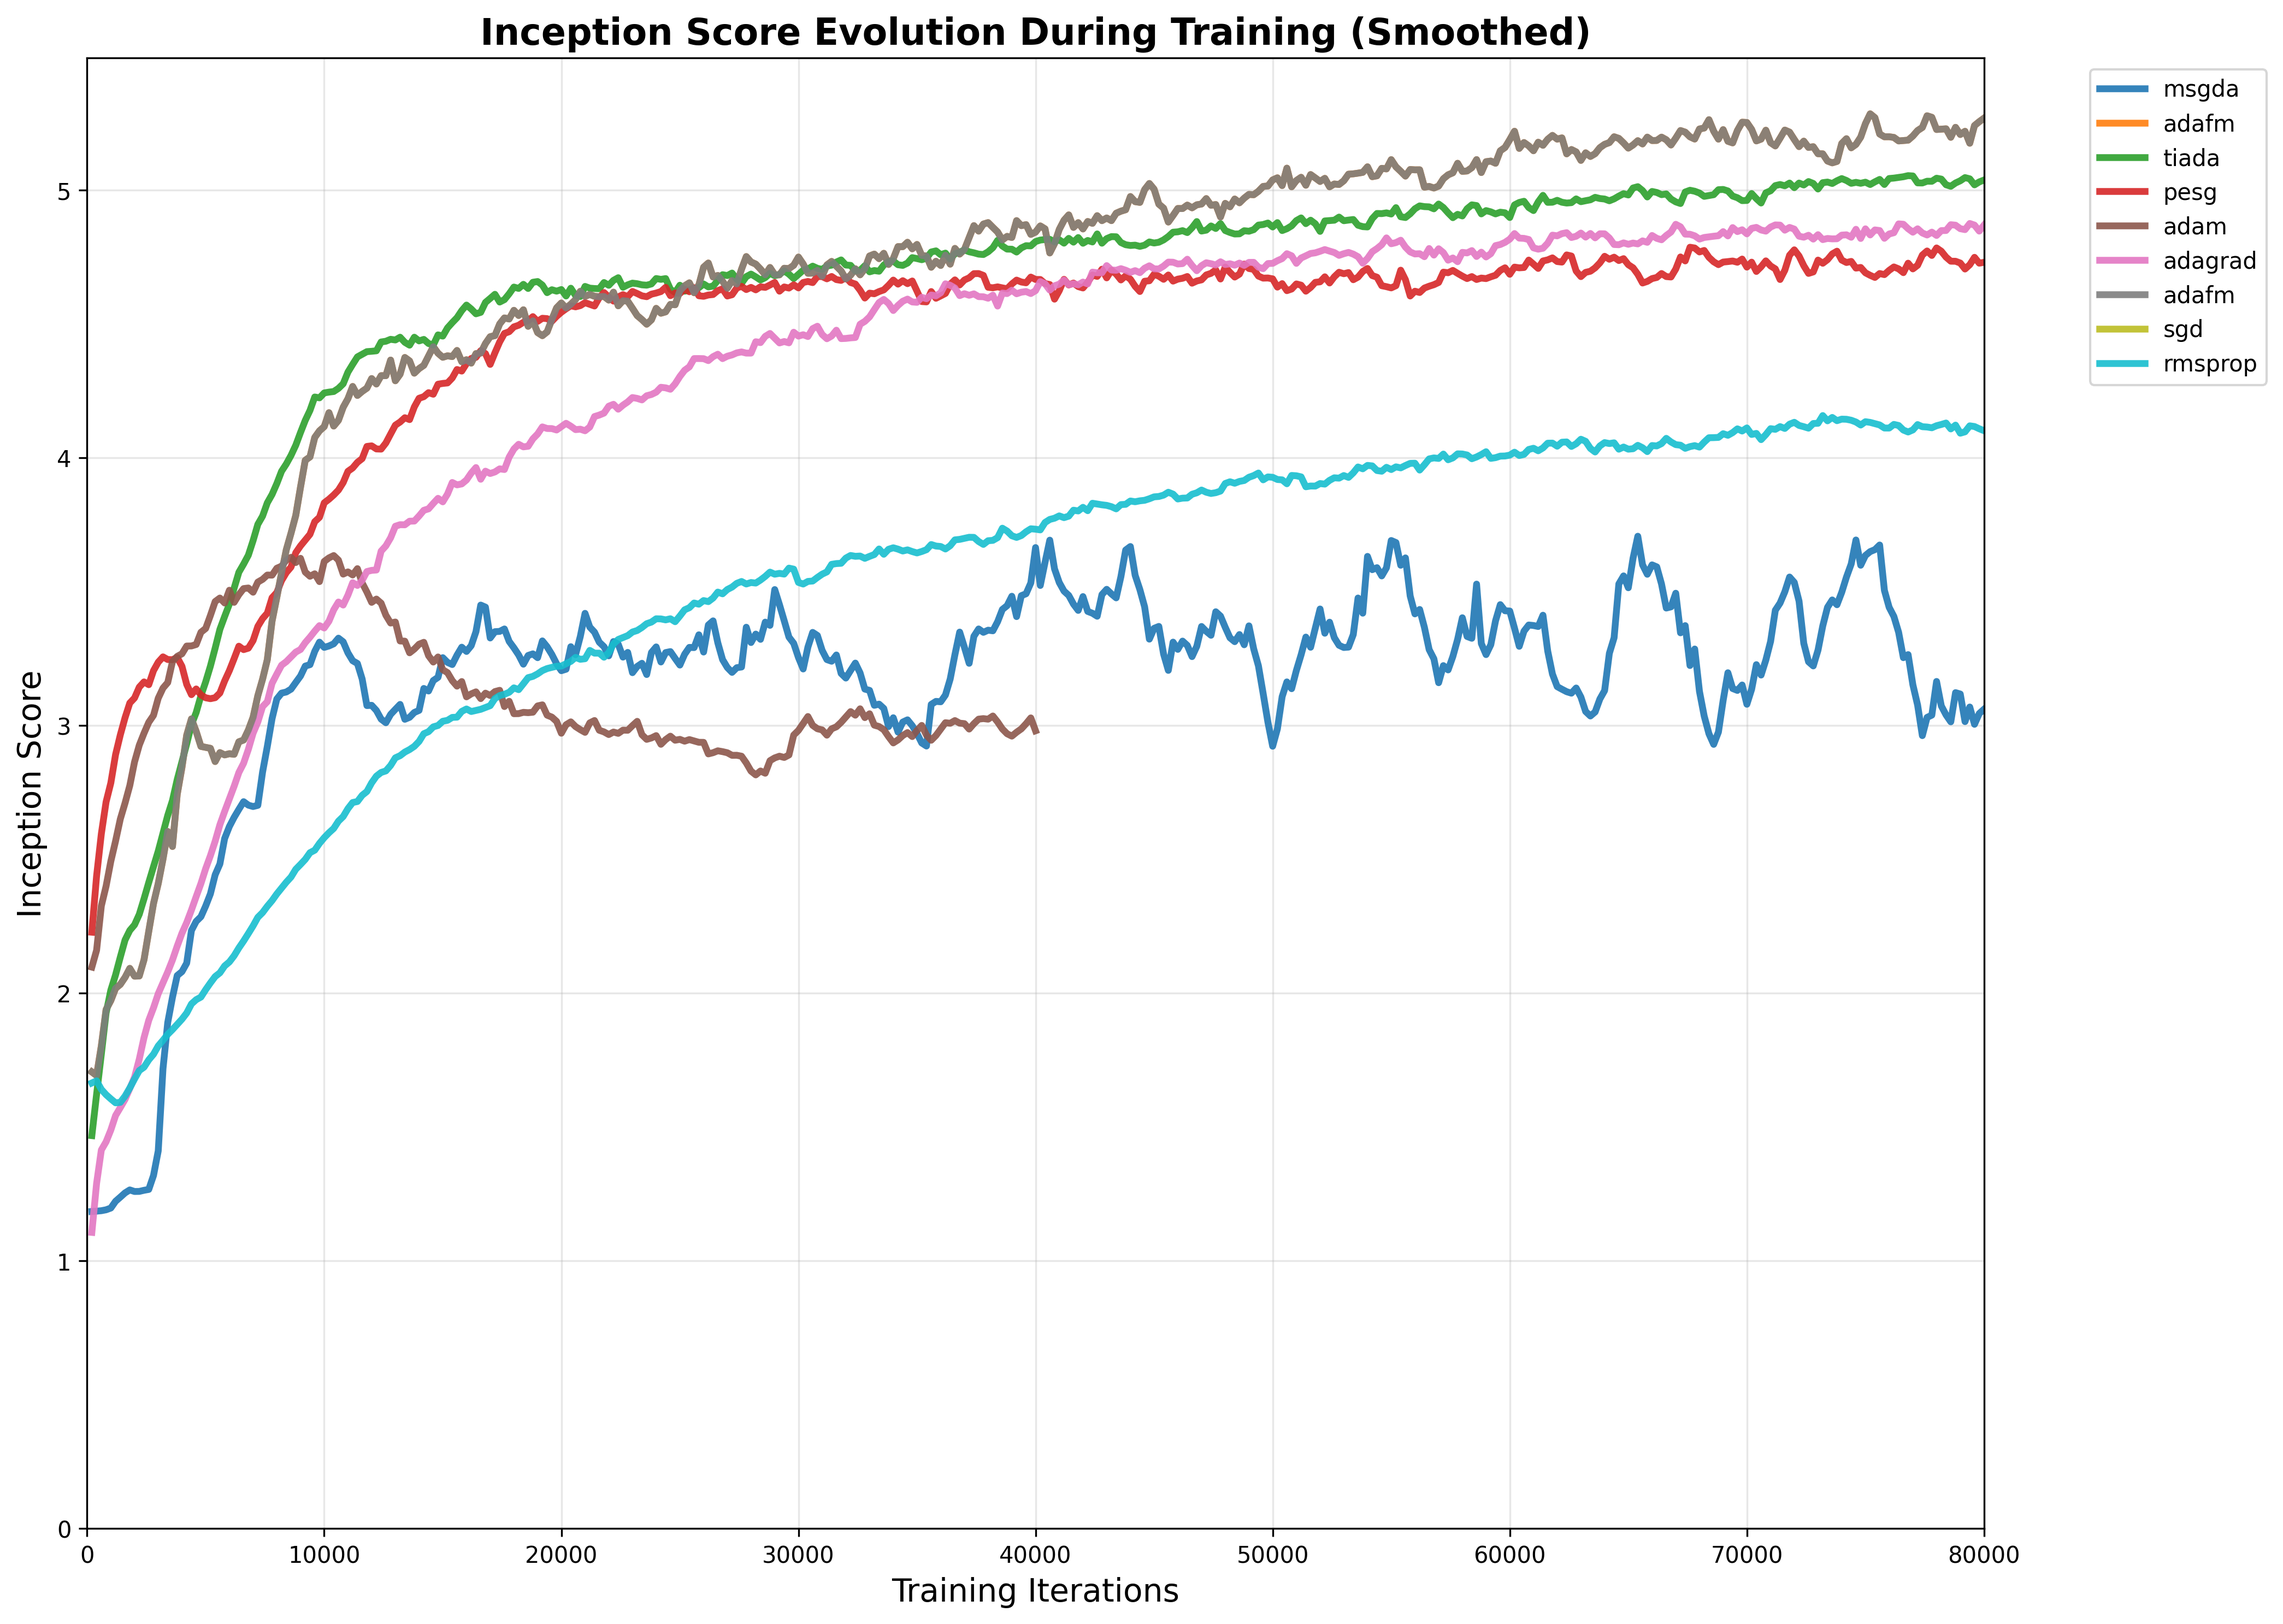
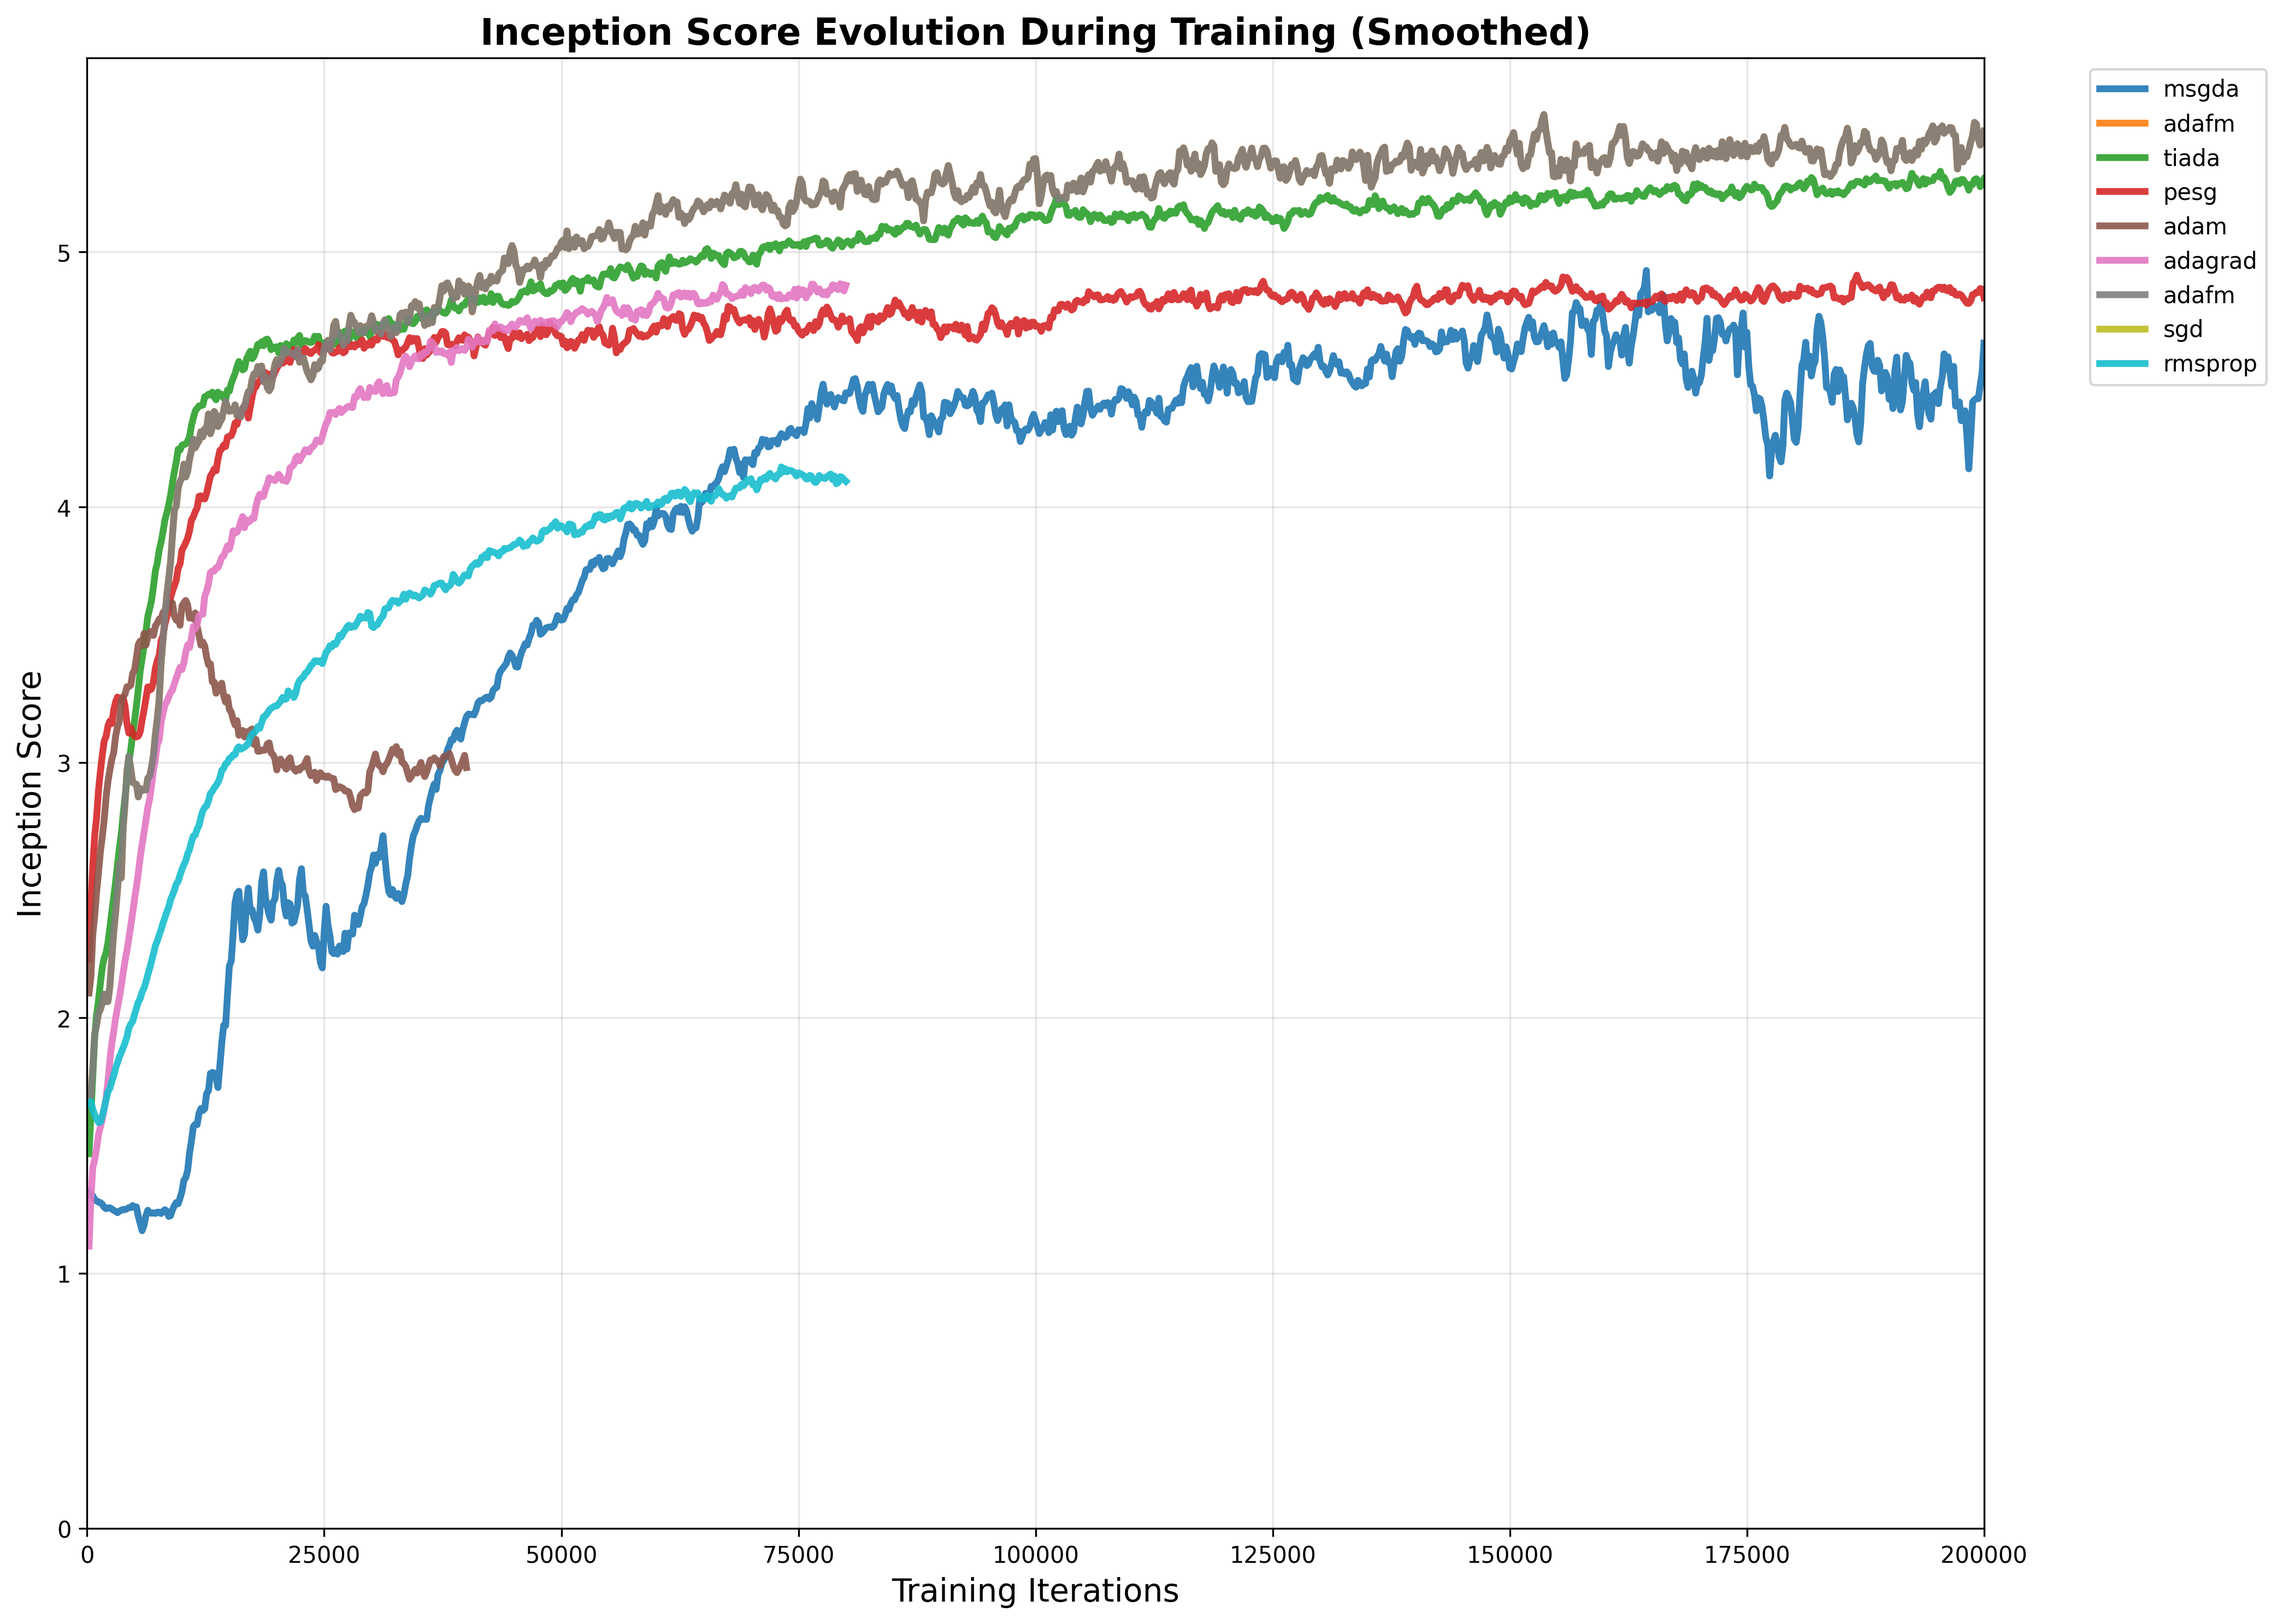
add result

diff --git a/draw.py b/draw.py
@@ -10,6 +10,7 @@ from scipy.ndimage import uniform_filter1d
 
 SAVE_INTERVAL = 200
 SHOW_ENVELOPE = False
+MAX_ITERATIONS = 200000  # Maximum x-axis range for plotting
 FIGURE_FOLDER = Path("figures")
 IS_FOLDER = FIGURE_FOLDER / "IS"
 os.makedirs(IS_FOLDER, exist_ok=True)
@@ -460,13 +461,13 @@ def plot_inception_scores(
             # Create x-axis (iterations)
             iterations = np.arange(1, len(scores) + 1) * save_interval
             
-            # Filter data to keep only x <= 80000
-            mask = iterations <= 80000
+            # Filter data to keep only x <= MAX_ITERATIONS
+            mask = iterations <= MAX_ITERATIONS
             iterations = iterations[mask]
             scores = scores[mask]
             
             if len(scores) == 0:
-                print(f"Skipped {exp_name}: No data within x <= 80000 range")
+                print(f"Skipped {exp_name}: No data within x <= {MAX_ITERATIONS} range")
                 continue
 
             # Smooth the data
@@ -549,7 +550,7 @@ def plot_inception_scores(
 
     # Set reasonable axis limits
     plt.ylim(bottom=0)
-    plt.xlim(left=0, right=80000)
+    plt.xlim(left=0, right=MAX_ITERATIONS)
 
     # Adjust layout to prevent legend cutoff
     plt.tight_layout()
@@ -560,6 +561,139 @@ def plot_inception_scores(
 
     # Show the plot
     plt.show()
+
+
+def create_optimizer_performance_table(best_experiments, save_path=None):
+    """
+    Create a performance comparison table for single loop vs double loop optimizers
+    
+    Args:
+        best_experiments (dict): Dictionary containing best experiments info
+        save_path (str): Path to save the table. If None, saves to IS_FOLDER
+    """
+    if save_path is None:
+        save_path = IS_FOLDER / "optimizer_performance_comparison.csv"
+    
+    # Separate single loop and double loop experiments
+    single_loop_stats = {}  # GAN experiments
+    double_loop_stats = {}  # GAN/model_factory experiments
+    
+    for exp_key, exp_info in best_experiments.items():
+        optimizer_name = exp_info["optimizer"]
+        best_is = exp_info["best_is"]
+        avg_is = exp_info["avg_is"]
+        backbone_name = exp_info.get("backbone", None)
+        
+        if backbone_name:  # Double loop (model_factory)
+            if optimizer_name not in double_loop_stats:
+                double_loop_stats[optimizer_name] = {
+                    "best_is_experiments": [],
+                    "avg_is_experiments": []
+                }
+            double_loop_stats[optimizer_name]["best_is_experiments"].append((best_is, exp_info))
+            double_loop_stats[optimizer_name]["avg_is_experiments"].append((avg_is, exp_info))
+        else:  # Single loop (traditional GAN)
+            if optimizer_name not in single_loop_stats:
+                single_loop_stats[optimizer_name] = {
+                    "best_is_experiments": [],
+                    "avg_is_experiments": []
+                }
+            single_loop_stats[optimizer_name]["best_is_experiments"].append((best_is, exp_info))
+            single_loop_stats[optimizer_name]["avg_is_experiments"].append((avg_is, exp_info))
+    
+    # Create table data
+    table_data = []
+    
+    # Process single loop optimizers
+    for optimizer, stats in single_loop_stats.items():
+        best_is_max = max(stats["best_is_experiments"], key=lambda x: x[0])
+        avg_is_max = max(stats["avg_is_experiments"], key=lambda x: x[0])
+        
+        table_data.append({
+            "Type": "Single Loop",
+            "Optimizer": optimizer,
+            "Best IS": f"{best_is_max[0]:.4f}",
+            "Max Avg IS": f"{avg_is_max[0]:.4f}"
+        })
+    
+    # Process double loop optimizers
+    for optimizer, stats in double_loop_stats.items():
+        best_is_max = max(stats["best_is_experiments"], key=lambda x: x[0])
+        avg_is_max = max(stats["avg_is_experiments"], key=lambda x: x[0])
+        
+        table_data.append({
+            "Type": "Double Loop",
+            "Optimizer": optimizer,
+            "Best IS": f"{best_is_max[0]:.4f}",
+            "Max Avg IS": f"{avg_is_max[0]:.4f}"
+        })
+    
+    # Create DataFrame and sort by Type then Best IS
+    df = pd.DataFrame(table_data)
+    df["Best IS (numeric)"] = df["Best IS"].astype(float)
+    df = df.sort_values(["Type", "Best IS (numeric)"], ascending=[True, False])
+    df = df.drop("Best IS (numeric)", axis=1)  # Remove helper column
+    
+    # Save to CSV
+    df.to_csv(save_path, index=False)
+    print(f"Optimizer performance comparison table saved to: {save_path}")
+    
+    # Print table to console
+    print("\n" + "=" * 60)
+    print("OPTIMIZER PERFORMANCE COMPARISON")
+    print("=" * 60)
+    print(df.to_string(index=False))
+    print("=" * 60)
+    
+    # Create and save table as image
+    fig, ax = plt.subplots(figsize=(10, 6))
+    ax.axis('tight')
+    ax.axis('off')
+    
+    # Create table
+    table = ax.table(cellText=df.values,
+                    colLabels=df.columns,
+                    cellLoc='center',
+                    loc='center',
+                    bbox=[0, 0, 1, 1])
+    
+    # Style the table
+    table.auto_set_font_size(False)
+    table.set_fontsize(12)
+    table.scale(1.2, 2)
+    
+    # Style header row
+    for i in range(len(df.columns)):
+        table[(0, i)].set_facecolor('#4CAF50')
+        table[(0, i)].set_text_props(weight='bold', color='white')
+    
+    # Alternate row colors
+    for i in range(1, len(df) + 1):
+        for j in range(len(df.columns)):
+            if i % 2 == 0:
+                table[(i, j)].set_facecolor('#f2f2f2')
+            else:
+                table[(i, j)].set_facecolor('white')
+    
+    # Color-code by type
+    for i in range(1, len(df) + 1):
+        if df.iloc[i-1]['Type'] == 'Single Loop':
+            table[(i, 0)].set_facecolor('#e3f2fd')  # Light blue
+        else:  # Double Loop
+            table[(i, 0)].set_facecolor('#fff3e0')  # Light orange
+    
+    plt.title('Optimizer Performance Comparison\nSingle Loop vs Double Loop', 
+              fontsize=16, fontweight='bold', pad=20)
+    
+    # Save the table image
+    image_save_path = save_path.parent / "optimizer_performance_comparison.png"
+    plt.savefig(image_save_path, dpi=300, bbox_inches='tight', 
+                facecolor='white', edgecolor='none')
+    print(f"Table image saved to: {image_save_path}")
+    
+    plt.show()
+    
+    return df
 
 
 def main(use_best_only=True):
@@ -648,6 +782,18 @@ def main(use_best_only=True):
             show_raw=False,
             max_points=40000,
         )
+
+    # Create optimizer performance comparison table
+    if use_best_only:
+        print("\nCreating optimizer performance comparison table...")
+        
+        # Get best experiments data for table creation
+        best_experiments = find_best_experiments_by_stats(gan_dirs)
+        
+        if best_experiments:
+            create_optimizer_performance_table(best_experiments)
+        else:
+            print("No best experiments data found for table creation")
 
     print("\nAnalysis complete!")
 
